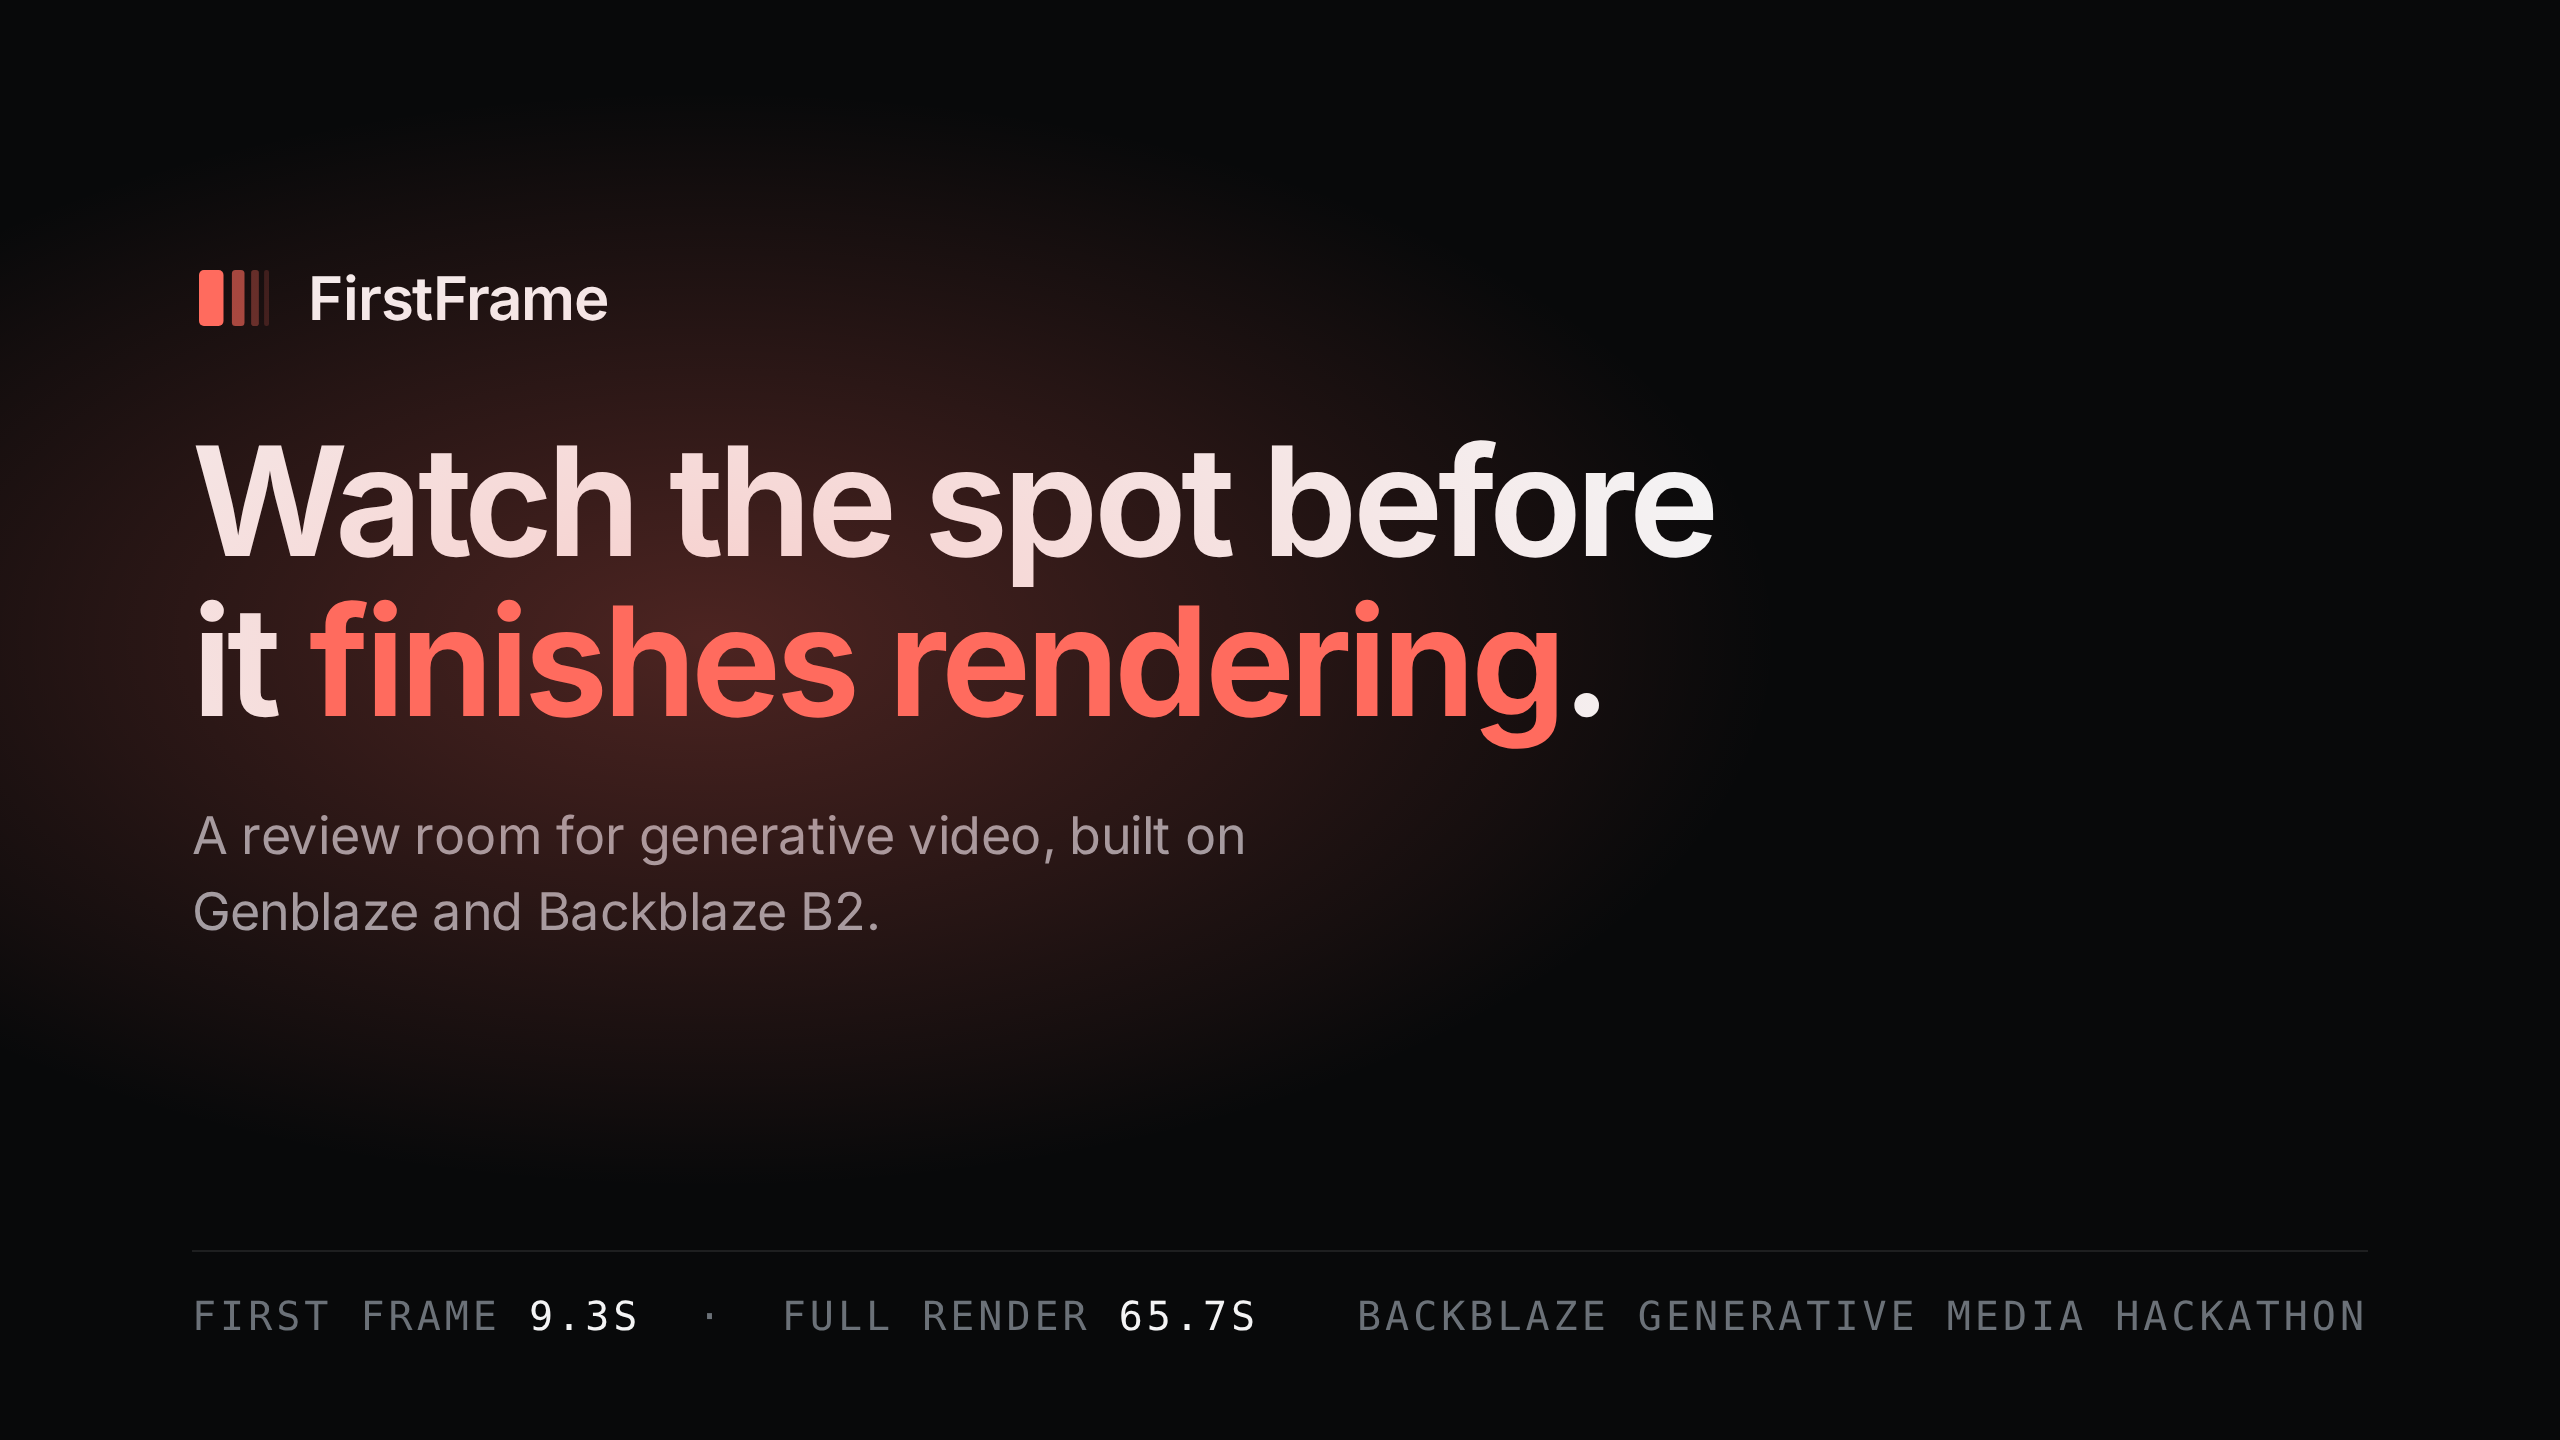
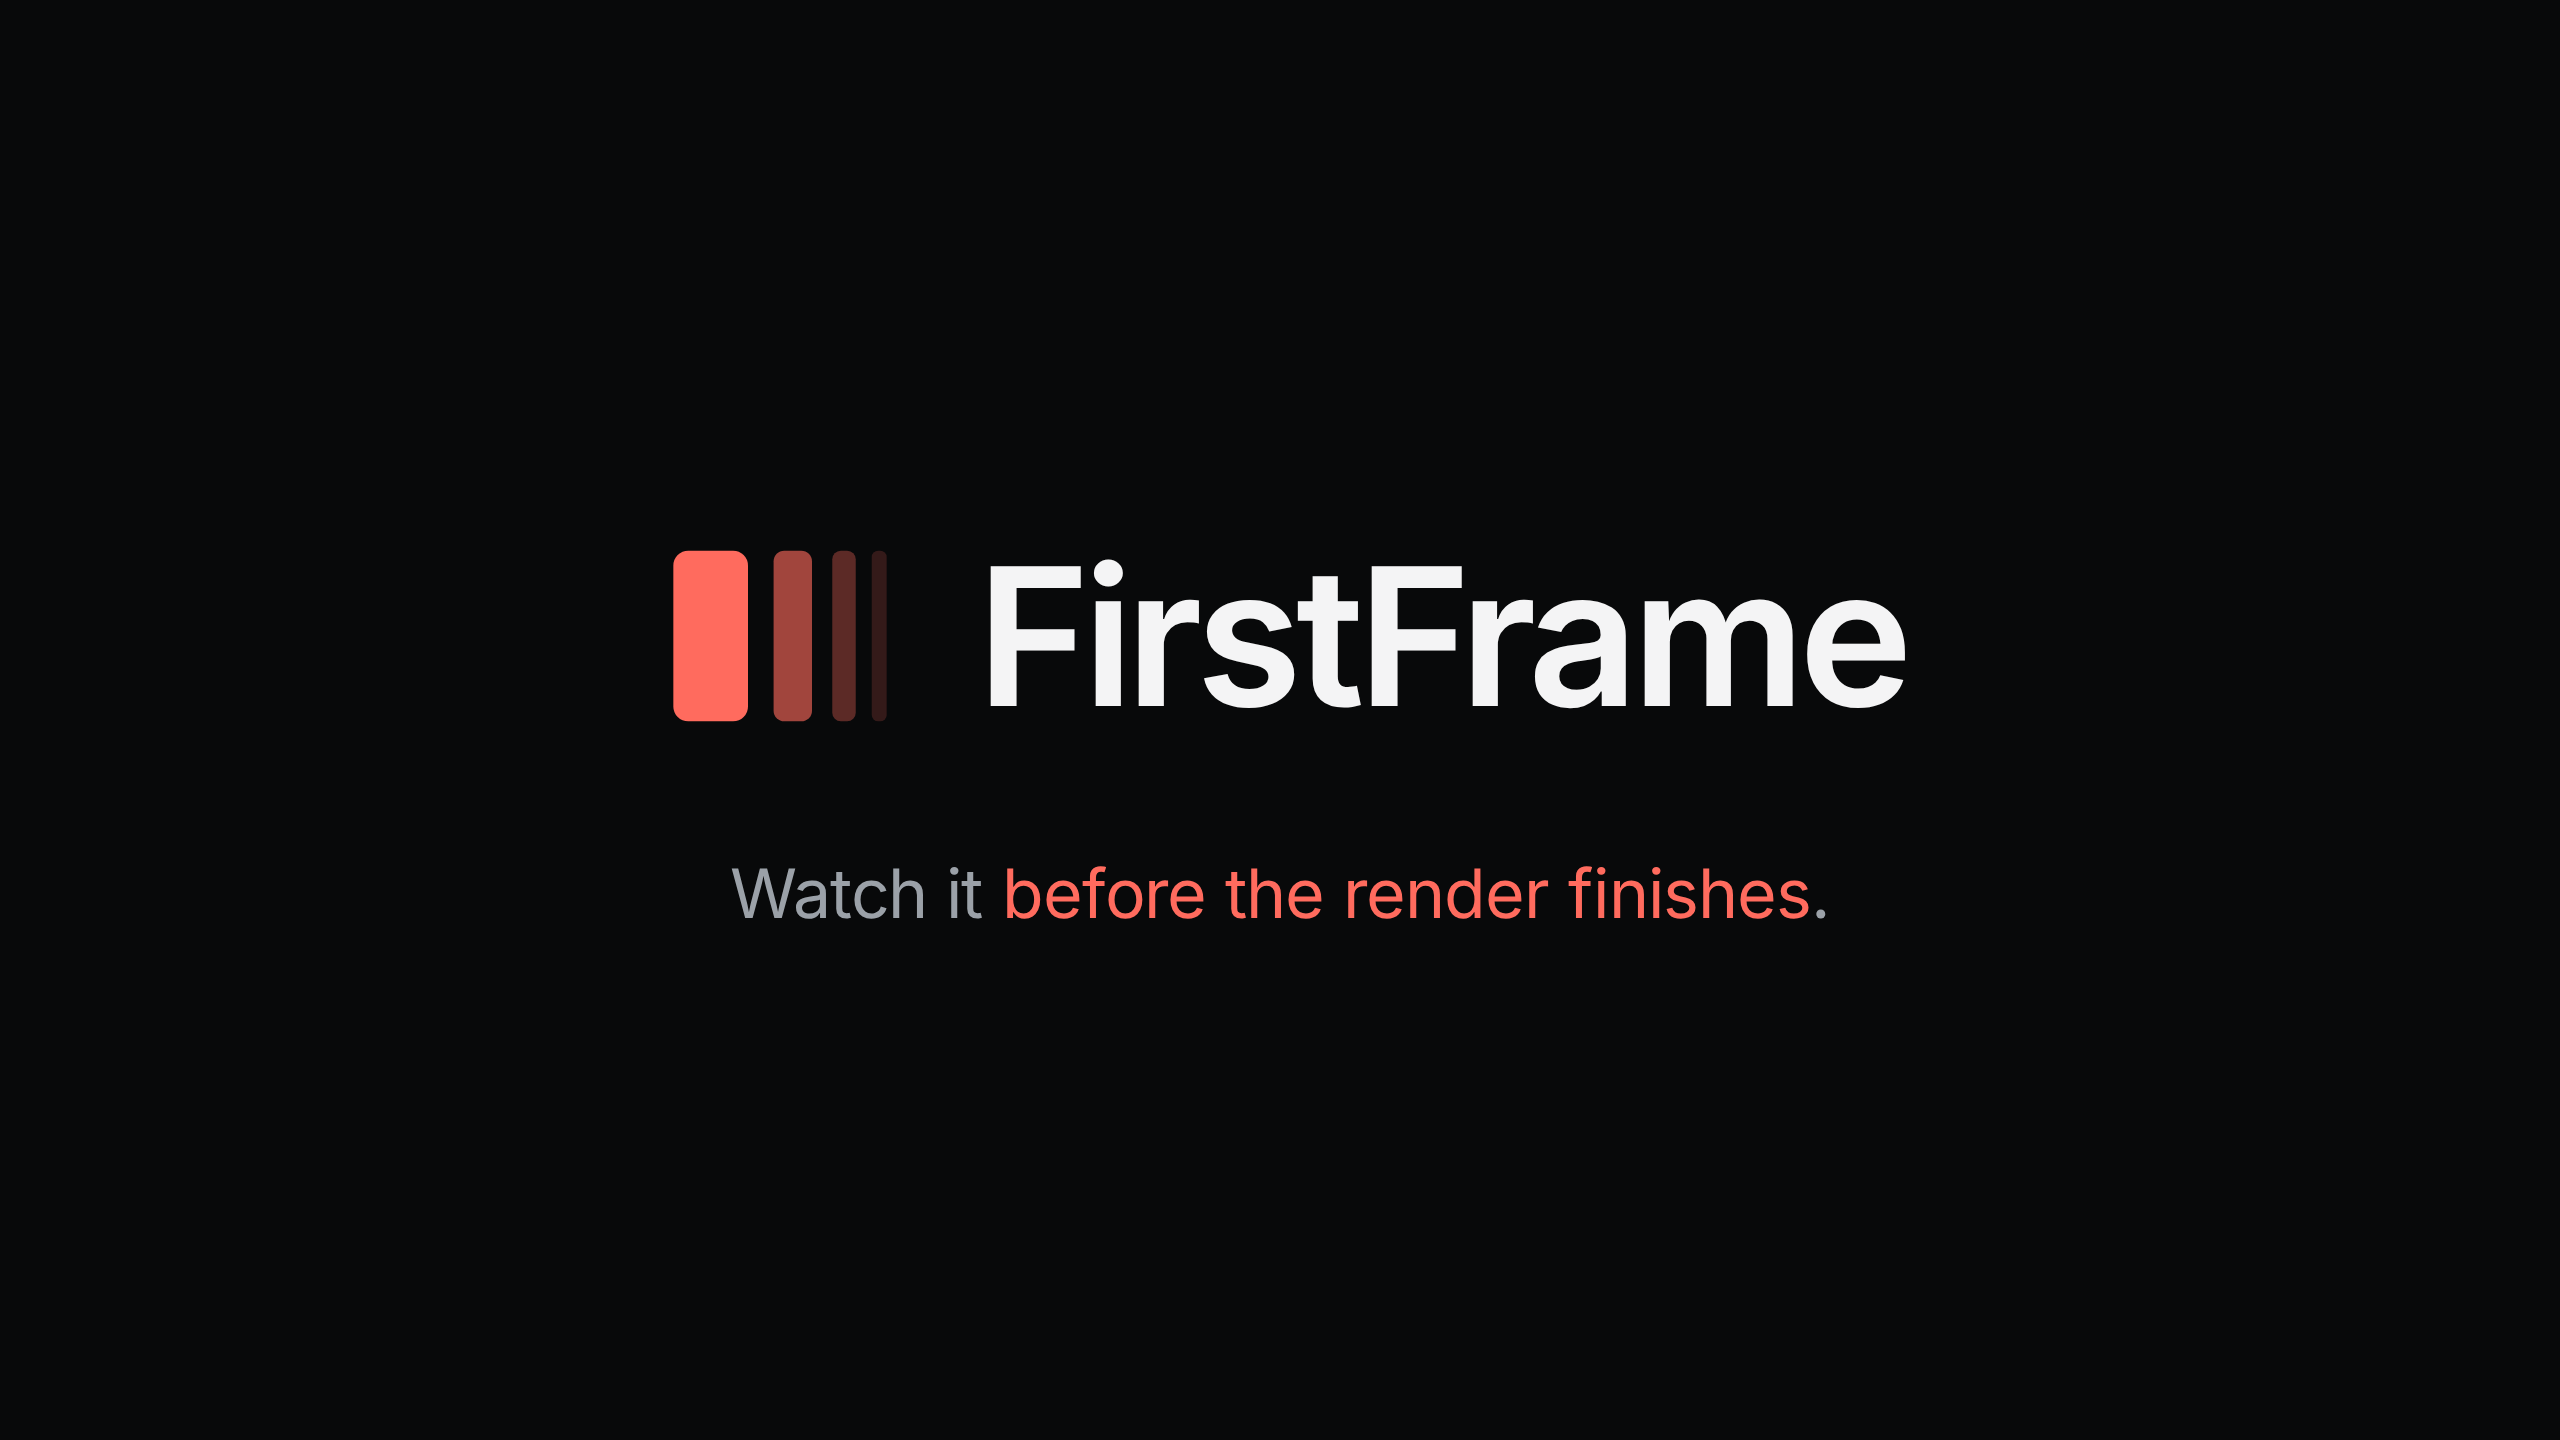
demo: miniatura centrada, marca grande, sin pie ni halo

diff --git a/demo/thumb.html b/demo/thumb.html
@@ -3,7 +3,7 @@
 <title>FirstFrame — thumbnail</title>
 <style>
   /* Miniatura 1280x720 para YouTube/Devpost. Se captura a 2x -> 2560x1440.
-     Mismo sistema que la landing: Inter, lienzo #08090a, coral solo como acento. */
+     Centrada, sin pie y sin halo: la marca y una linea, nada mas. */
   @font-face {
     font-family: 'Inter';
     src: url('../web/vendor/fonts/inter-latin.woff2') format('woff2');
@@ -16,43 +16,18 @@
     font-family: Inter, system-ui, -apple-system, sans-serif;
     color: #f4f4f5;
     display: flex; flex-direction: column;
-    justify-content: center;
-    padding: 0 96px 118px;
-    position: relative;
+    align-items: center; justify-content: center;
+    text-align: center;
   }
-  /* Halo radial: muere en transparente, sin arista que recortar. */
-  .glow {
-    position: absolute; inset: -20%;
-    background: radial-gradient(ellipse 44% 40% at 34% 46%,
-                rgba(255,107,94,.28), transparent 68%);
-    pointer-events: none;
-  }
-  .mark { display: flex; align-items: center; gap: 16px; margin-bottom: 40px; }
-  .mark svg { width: 42px; height: 42px; display: block; }
-  .mark span {
-    font-size: 30px; font-weight: 600; letter-spacing: -.018em;
-  }
-  h1 {
-    font-size: 76px; line-height: 1.06; font-weight: 640;
-    letter-spacing: -.034em; max-width: 13.5em;
-  }
-  h1 em { font-style: normal; color: #ff6b5e; }
+  .mark { display: flex; align-items: center; gap: 34px; }
+  .mark svg { width: 128px; height: 128px; display: block; }
+  .mark span { font-size: 96px; font-weight: 620; letter-spacing: -.032em; }
   p {
-    margin-top: 28px; font-size: 26px; line-height: 1.45;
-    color: #9ba1a8; max-width: 24em; letter-spacing: -.008em;
+    margin-top: 44px; font-size: 34px; font-weight: 400;
+    letter-spacing: -.014em; color: #9ba1a8;
   }
-  /* Pie: la prueba, en monoespaciada y discreta. No compite con el titular. */
-  .foot {
-    position: absolute; left: 96px; right: 96px; bottom: 52px;
-    display: flex; justify-content: space-between; align-items: baseline;
-    font: 20px/1 ui-monospace, SFMono-Regular, Menlo, monospace;
-    letter-spacing: .1em; text-transform: uppercase; color: #6b7178;
-    border-top: 1px solid rgba(255,255,255,.09); padding-top: 22px;
-  }
-  .foot b { color: #f4f4f5; font-weight: 500; }
+  p em { font-style: normal; color: #ff6b5e; }
 </style>
-
-<div class="glow"></div>
 
 <div class="mark">
   <svg viewBox="0 0 24 24" xmlns="http://www.w3.org/2000/svg">
@@ -66,11 +41,4 @@
   <span>FirstFrame</span>
 </div>
 
-<h1>Watch the spot before<br>it <em>finishes rendering</em>.</h1>
-
-<p>A review room for generative video, built on Genblaze and Backblaze B2.</p>
-
-<div class="foot">
-  <span>First frame <b>9.3s</b> &nbsp;·&nbsp; Full render <b>65.7s</b></span>
-  <span>Backblaze Generative Media Hackathon</span>
-</div>
+<p>Watch it <em>before the render finishes</em>.</p>
